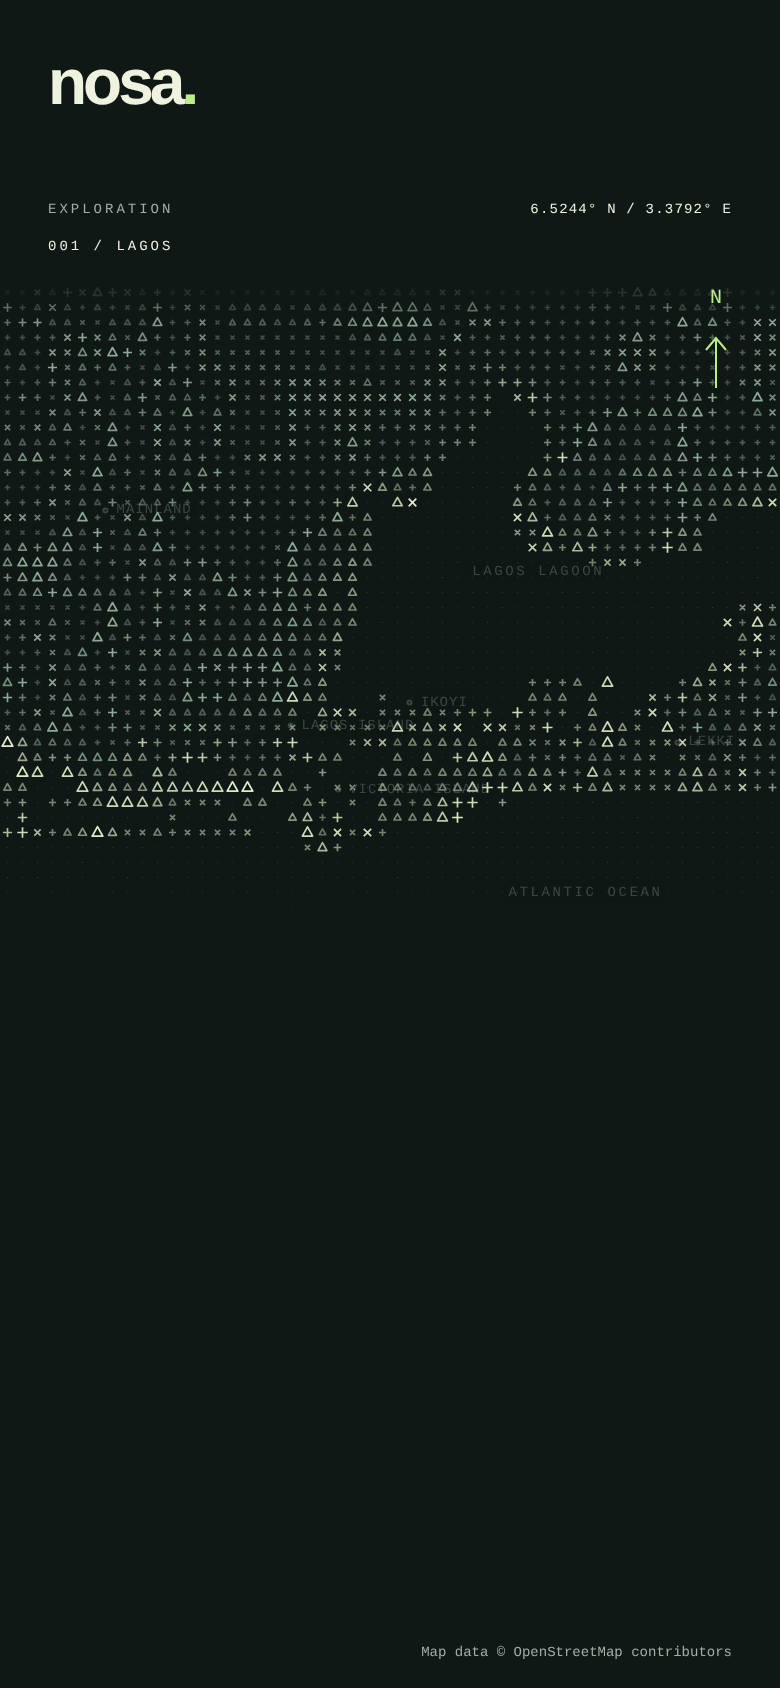
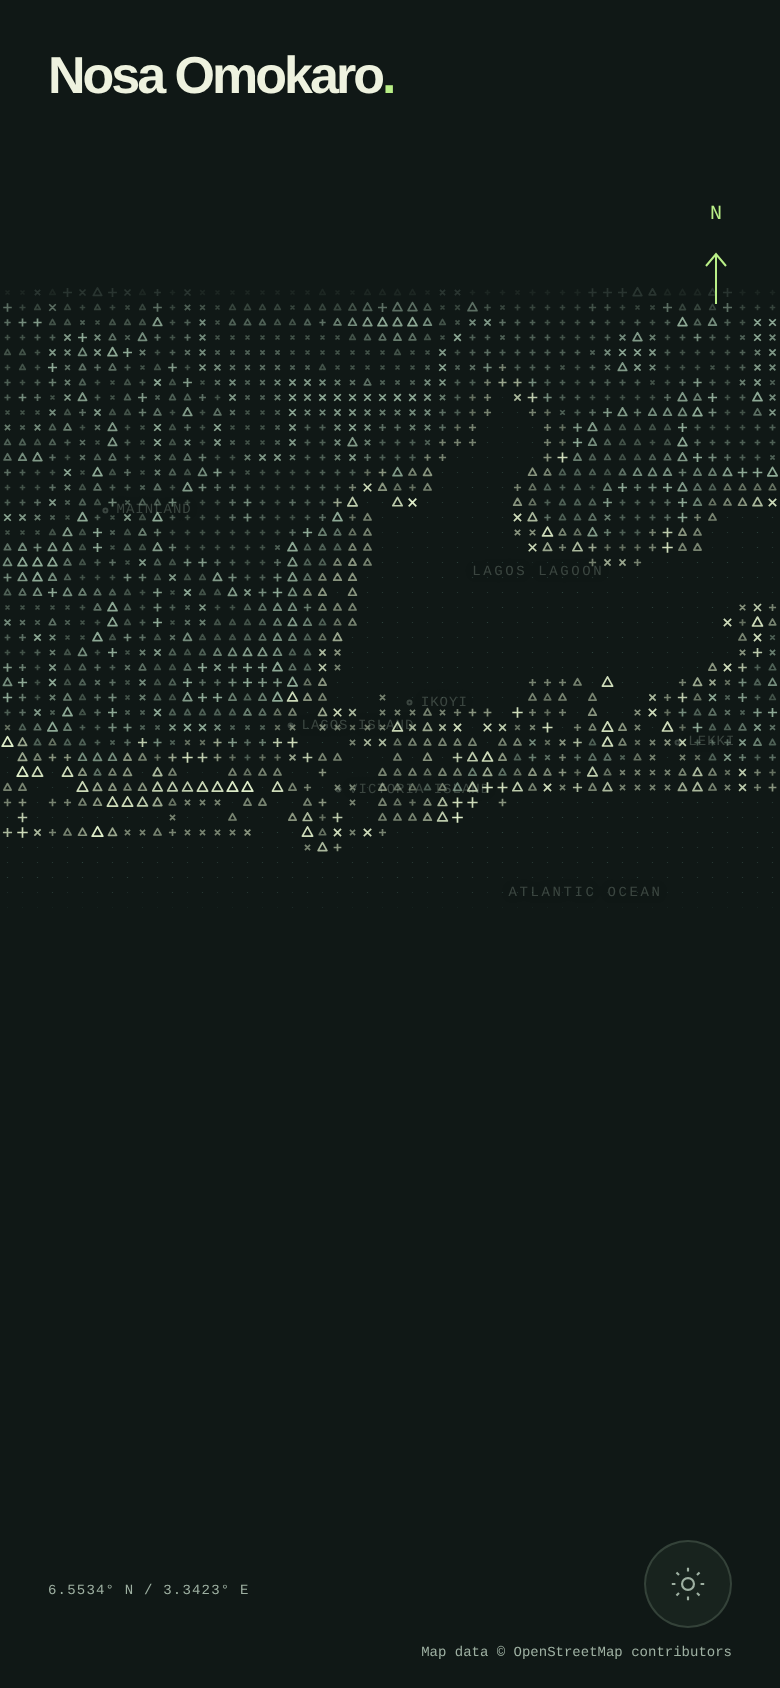
Refine portfolio wordmark and map controls

diff --git a/src/lib/lagos-field.ts b/src/lib/lagos-field.ts
@@ -31,6 +31,7 @@ export function mountLagosField(root: HTMLElement): () => void {
   const context = canvas.getContext('2d', { alpha: false, desynchronized: true });
   if (!context) return () => {};
   const ctx = context;
+  const themeButton = root.querySelector<HTMLButtonElement>('.theme-button')!;
   const coordinateLabel = root.querySelector<HTMLElement>('.live-coordinates')!;
   const reducedMotion = matchMedia('(prefers-reduced-motion: reduce)');
   const events = new AbortController(), { signal } = events;
@@ -52,6 +53,8 @@ export function mountLagosField(root: HTMLElement): () => void {
       ? ['#a7c6af', '#deedc9', '#648f88', '#b9f581', '#f2e5b7']
       : ['#38594c', '#247e6c', '#789791', '#638d21', '#a86527'];
     root.dataset.theme = dark ? 'dark' : 'light';
+    const themeLabel = `Switch to ${dark ? 'light' : 'dark'} mode`;
+    themeButton.setAttribute('aria-label', themeLabel); themeButton.title = themeLabel;
     document.querySelector('meta[name="theme-color"]')?.setAttribute('content', paper);
   }
 
@@ -300,7 +303,10 @@ export function mountLagosField(root: HTMLElement): () => void {
     samplePointer(event);
   }, { signal, passive: true });
   root.addEventListener('pointerdown', event => {
-    if (event.button !== 0 || isControl(event.target) || paused || reducedMotion.matches) return;
+    if (event.button !== 0 || isControl(event.target)) return;
+    // A map gesture should not start native text selection after repeated clicks.
+    event.preventDefault();
+    if (paused || reducedMotion.matches) return;
     down = true; pointerId = event.pointerId; dragDistance = 0; previousSample = null;
     root.dataset.drawing = 'true'; root.setPointerCapture(event.pointerId); samplePointer(event);
   }, { signal });
@@ -314,6 +320,7 @@ export function mountLagosField(root: HTMLElement): () => void {
   root.addEventListener('lostpointercapture', () => { down = false; pointerId = null; root.dataset.drawing = 'false'; }, { signal });
   root.addEventListener('pointerleave', () => { if (!down) previousSample = null; }, { signal });
   window.addEventListener('blur', () => { endDrag(); previousSample = null; }, { signal });
+  themeButton.addEventListener('click', () => { endDrag(); resetField(); dark = !dark; setPalette(); cacheMap(); }, { signal });
   reducedMotion.addEventListener('change', () => { paused = reducedMotion.matches; updateMotion(); }, { signal });
   document.addEventListener('visibilitychange', () => {
     if (document.hidden) { cancelAnimationFrame(animation); animation = 0; endDrag(); resetField(); }

diff --git a/README.md b/README.md
@@ -31,4 +31,4 @@ The resting field is cached. A spatial grid limits interaction queries, and only
 changed canvas tiles are restored. Vector paths are grouped by color and opacity;
 frames stop when the bounded particles and pulses settle. No animation framework
 or runtime dependency is needed.
-Set the background’s `data-theme` to `dark` or `light` before mounting to choose the palette.
+The bottom-right theme button switches between dark green and paper palettes. Decorative labels do not select while drawing; foreground links and controls remain interactive.
